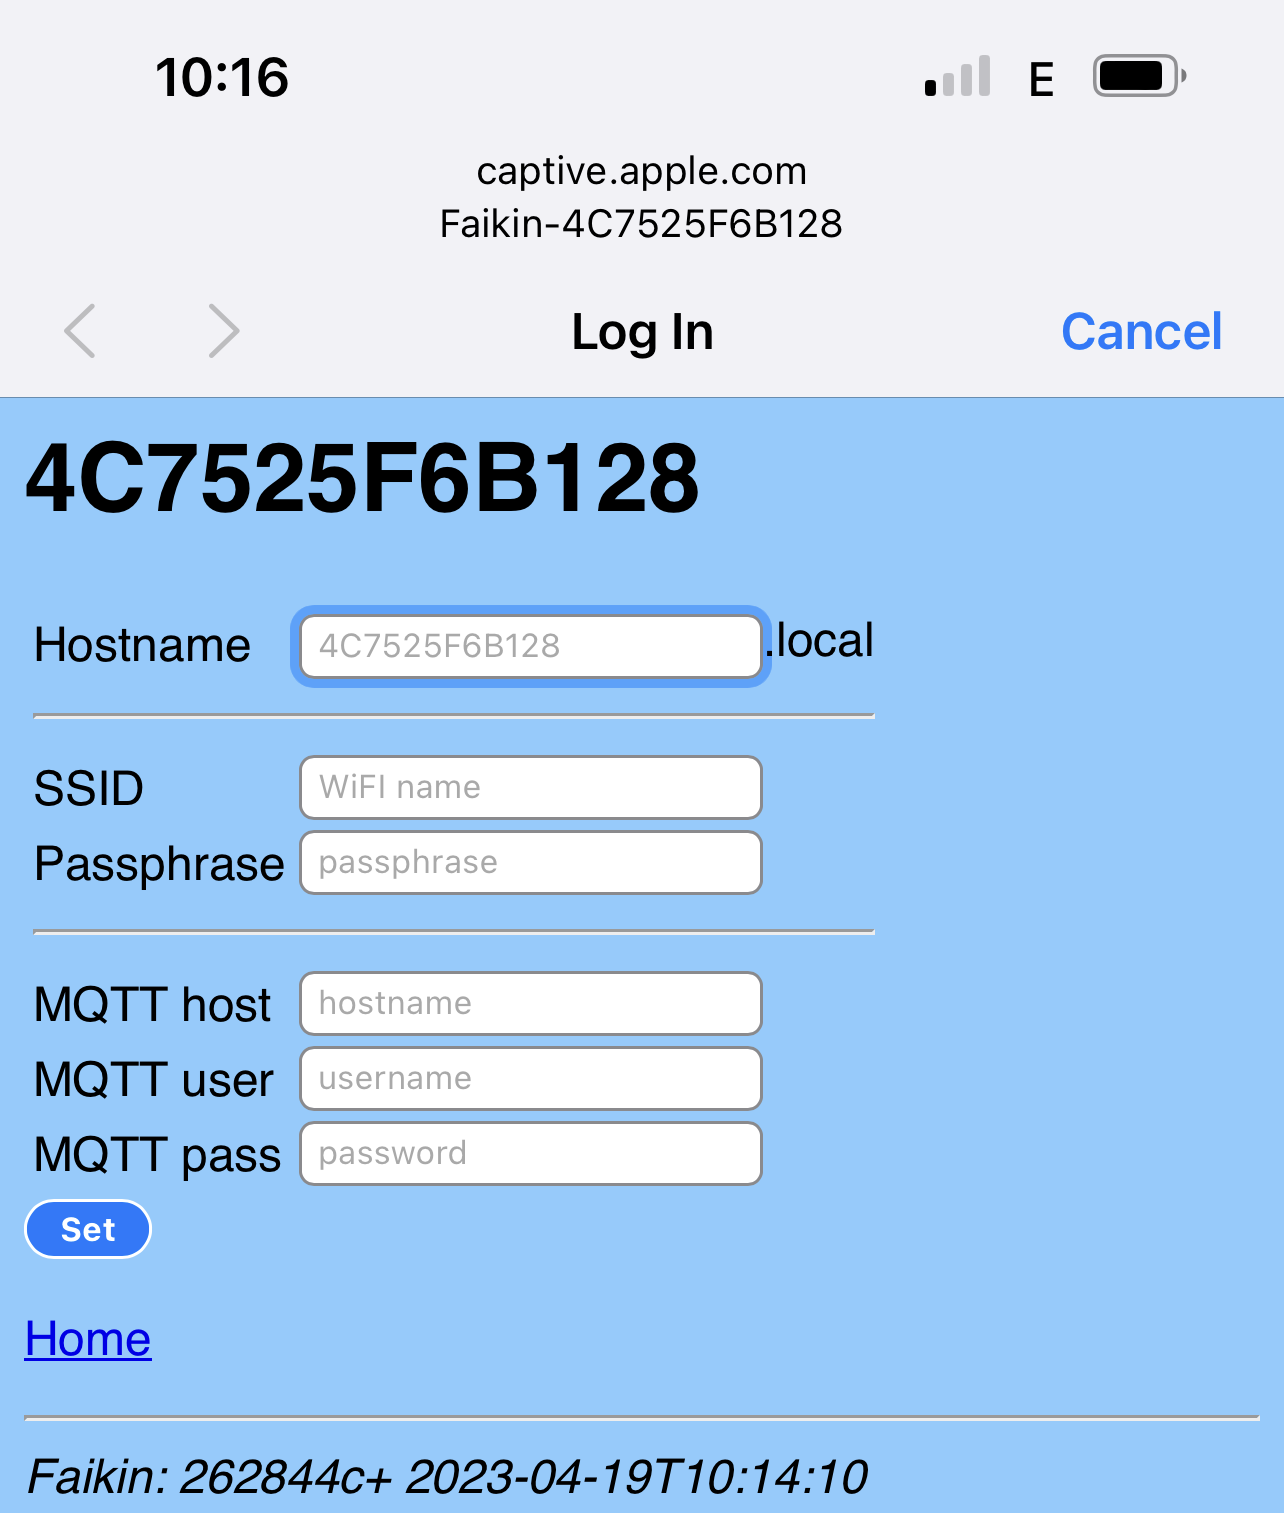
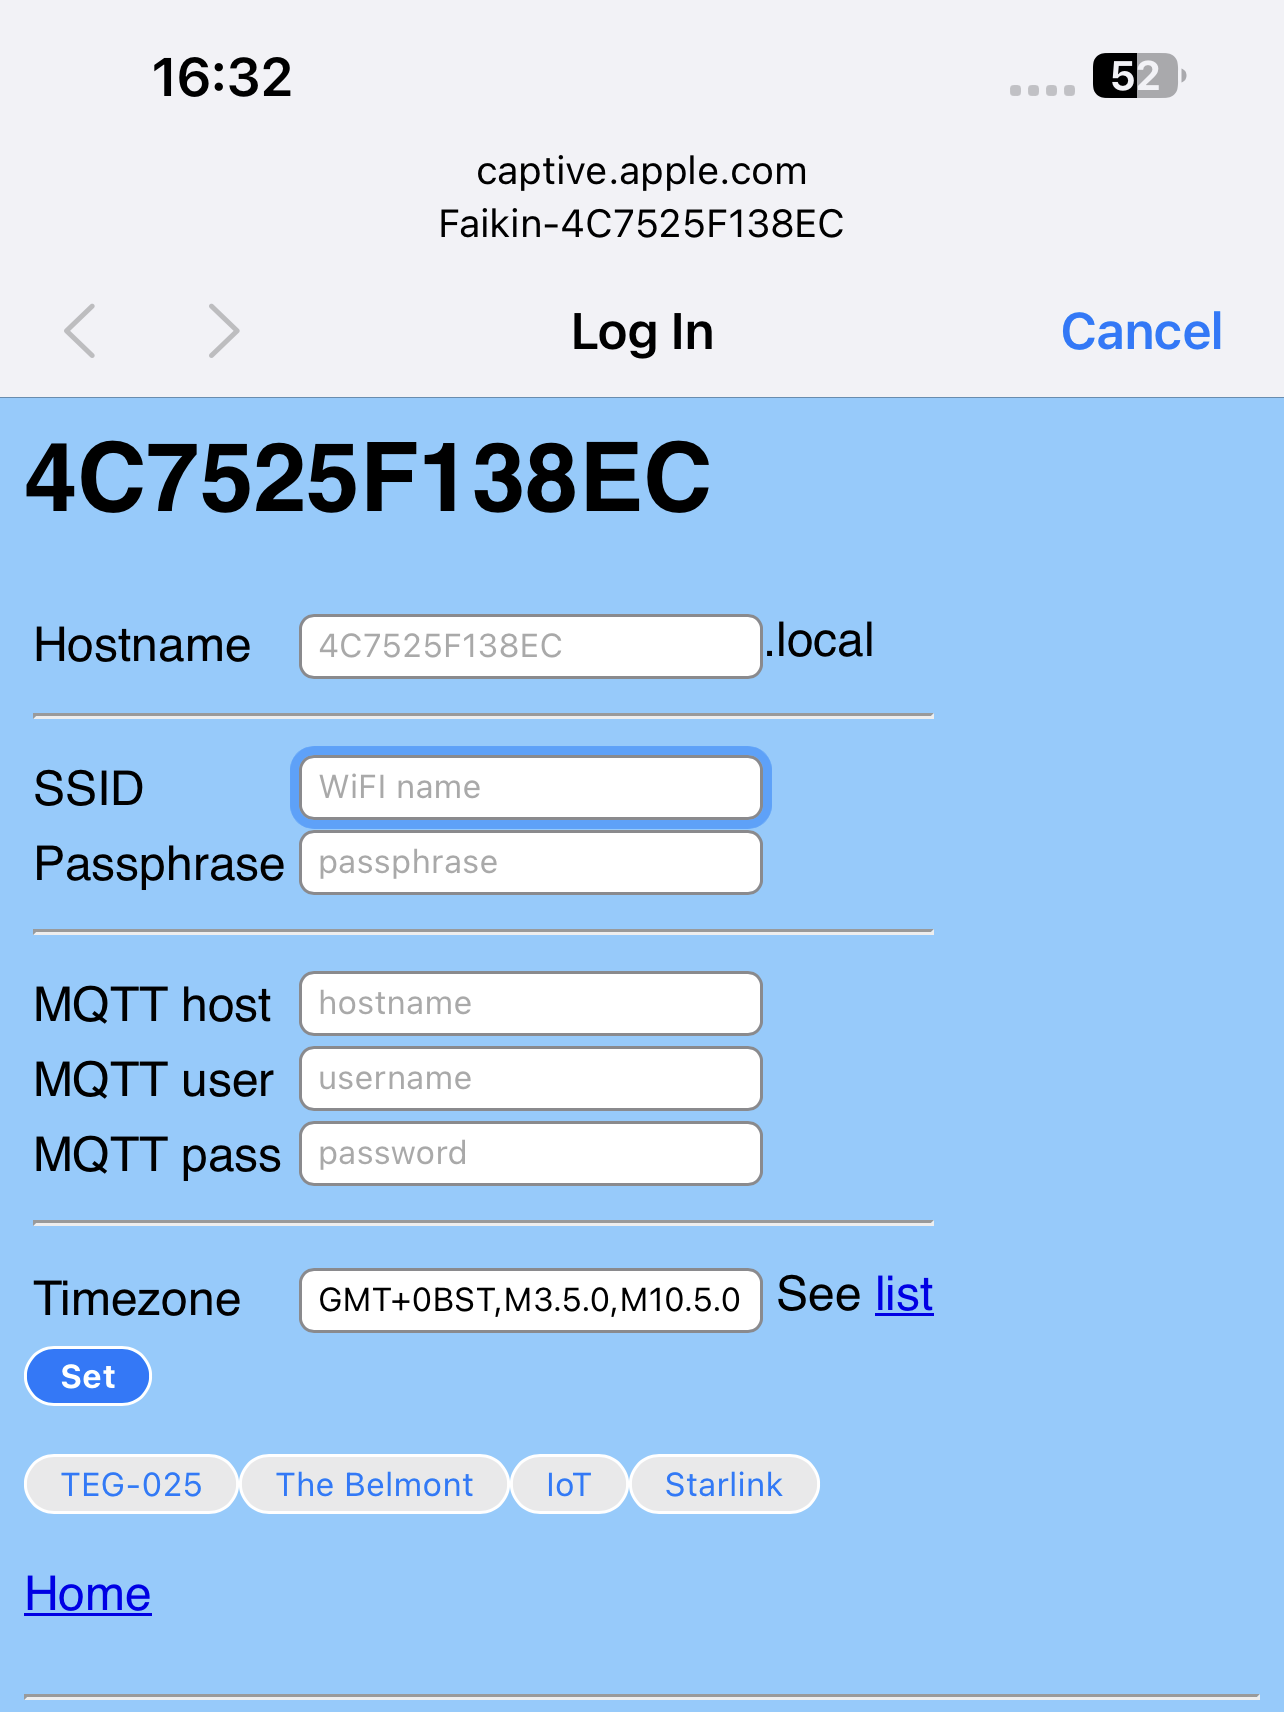
Manuals

diff --git a/Manuals/Controls.md b/Manuals/Controls.md
@@ -8,5 +8,20 @@ Example
 
 ## Main operation
 
+The first section coverrs teh direct controls and status for the air-con unit. the exact options depends on the units and settings.
+
+Making changes has immediate effect, and changes by other means, such as IR remote, show immediately (within seconds).
+
+The one exception is the fan "Night" mode, where available. This can be set but it seems there is no way to tell it has been set, so this only shows if set from this interface.
+
 ## Automated controls
 
+The automated controls allow a separate layer of controls to be applied. These work by setting "Cool" and "Heat" as needed to achieve a desired temperature, much like the air-con's own "Auto" mode. But with more options.
+
+The "Track" setting, if not "Off", enables the auto setting of *heat* and *cool* modes to aim for a target within a range.
+
+The "Target" is the target temperature. You will see the "Set" in the main controls change to be many degrees below or above the target at various times to *aim* for the target.
+
+The "On"/"Off" times can be set. If not `00:00` (midnight) then they cause the air-con to turn on, or off, at the time specified. Note, you may need to ensure the correct timezone in *settings*. Each is disabled by setting `00:00` (midnight) or setting both to the same time.
+
+The "Auto⏻" control enables automatic *on*/*off* based on temperature. If well outside target range and off, it turns on. When inside range for a time when on, it turns off.

diff --git a/README.md b/README.md
@@ -27,6 +27,7 @@ Local interactive web control page using *hostname*.local, no app required, no e
 ![WiFi3](Manuals/WiFi3.png)
 
 - [Setup](Manuals/Setup.md) Manual
+- [Controls](Manuals/Controls.md) Manual
 - [Advanced](Manuals/Advanced.md) Manual
 
 # Design
@@ -51,9 +52,3 @@ Basically, Daikin have gone all cloudy with the latest WiFi controllers. This mo
 Git clone this `--recursive` to get all the submodules, and it should build with just `make`. There are make targets for other variables, but this hardware is the `make pico` version. The `make` actually runs the normal `idf.py` to build with then uses cmake. `make menuconfig` can be used to fine tune the settings, but the defaults should be mostly sane. `make flash` should work to program. You will need a programming lead, e.g. [Tazmotizer](https://github.com/revk/Shelly-Tasmotizer-PCB) or similar, and of course the full ESP IDF environment.
 
 If you want to purchase an assembled PCB, see [A&A circuit boards](https://www.aa.net.uk/etc/circuit-boards/) or [Amazon](https://www.amazon.co.uk/dp/B0C2ZYXNYQ).
-
-<<<<<<< HEAD
-![Module](Manuals/Install1.jpg)
-=======
-The 5 pin plug from the Daiking WiFi wiring fits directly.
->>>>>>> e2149097789b9cecff7a606178cfd34fcac5c532

diff --git a/Manuals/Setup.md b/Manuals/Setup.md
@@ -50,7 +50,7 @@ On an iPhone this should automatically open a web page. On other devices you may
 
 ![WiFi](WiFi3.png)
 
-Enter details and press **Set**.
+Enter details and press **Set**. Setting a *Hostname* is a good idea so you can name your air-con. For HomeAssistant you will probably need an MQTT username and password. If not in the UK, please look up the *timezone* string needed in the link provided.
 
 ### Hostname
 
